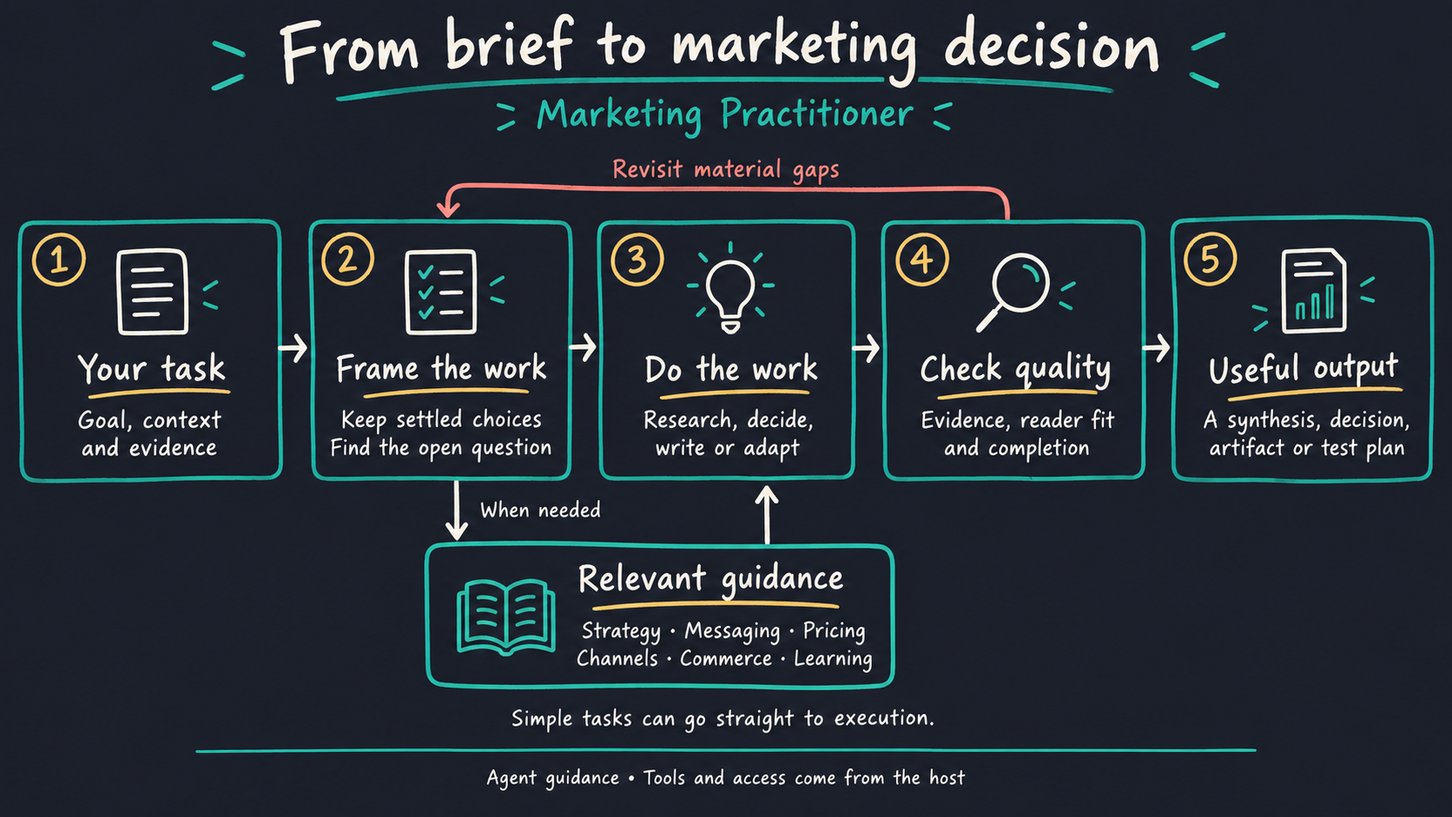
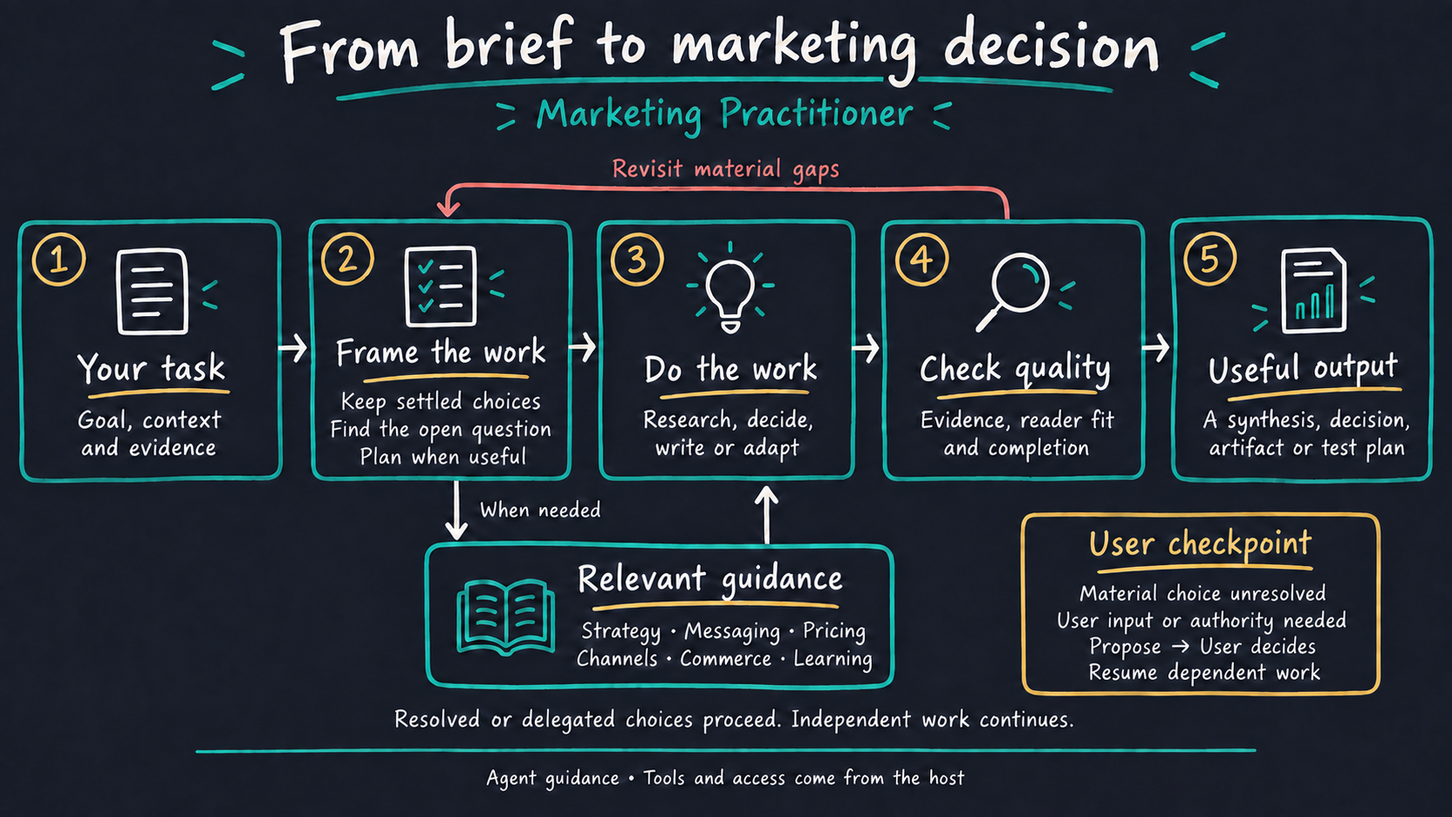
feat: add authority-aware planning and report presentation guidance

diff --git a/skills/marketing-practitioner/references/report-planning-and-presentation.md b/skills/marketing-practitioner/references/report-planning-and-presentation.md
@@ -1,0 +1,89 @@
+# Report Planning and Presentation
+
+Use for marketing reports, research syntheses, and decision briefs when their information architecture or presentation needs deliberate design. This is an operating contract, not evidence that one layout improves business outcomes. It applies across Markdown, HTML, PDF, and slides; adapt to the requested medium without changing the evidence or adopted decisions.
+
+Contents: [working plan](#working-plan), [decision boundaries](#decision-boundaries), [report contract](#report-contract), [representation choices](#representation-choices), [HTML delivery](#html-delivery), [examples](#examples), [source scope](#source-scope).
+
+## Working plan
+
+Apply the controller's materiality, delegation, and uncertainty rules. Planning organizes execution; a checkpoint resolves missing material input or decision authority under the request and retained context. Do not make a separate plan document unless it improves review or continuation, or the user requests one. A plan is not the final report unless planning itself is the requested job.
+
+Consider these six dimensions, exposing only what helps the user understand or revise the approach. Already supplied answers need no reconfirmation.
+
+| Dimension | Useful content |
+| --- | --- |
+| Purpose | Who will use the report, in what context, and for what understanding or decision? |
+| Questions | Which questions must be answered, and which are outside scope? Exploratory questions may evolve after a bounded inspection. |
+| Information architecture | Which sections are needed, what question or reader function each serves, and how the sequence builds understanding. |
+| Evidence plan | What is available, what must be retrieved or analyzed, and which gaps could change the answer. |
+| Presentation plan | Which comparisons or relationships need prose, tables, charts, diagrams, or interaction, and why. |
+| Completion and checkpoints | What makes the result useful and sufficiently supported; any unresolved material choice requiring user input or decision authority, and the work that depends on it. |
+
+Use a short outline with section purposes when that makes direction reviewable. Do not substitute decorative choices such as hero colors or card counts for the report's content architecture. Resolve ordinary rendering details within the brief and available design capabilities.
+
+## Decision boundaries
+
+Materiality follows the controller: a change in audience, scope, research question, method, positioning, channel, architecture, or commitment matters only when it changes the result or consequential downstream work. These labels do not determine decision authority. Establish whether the request and retained context authorize the agent to choose; do not infer that a topic inherently requires user approval.
+
+- **Sufficient direction:** announce a working plan if useful, then execute. Do not end the turn merely to invite approval.
+- **Delegated choice:** investigate enough to choose within scope, retain the choice and its limits, then continue. A recommendation remains a recommendation where adoption was not delegated.
+- **Material input or authority still needed:** inspect enough context to recommend a concrete direction and explain the consequence of choosing otherwise. Ask only for the missing decision; wait on dependent work while continuing reusable research or other independent work.
+
+Approval of an outline does not verify its factual assumptions or authorize publication, spending, or other external commitments. Follow the actual authorization for each action. New evidence may require revising a conclusion; preserve unaffected decisions and ask again only if a material choice remains unresolved and the available input or decision authority is insufficient.
+
+## Report contract
+
+Organize around the reader's questions rather than the chronology of research or the internal routing process. A decision brief may lead with a recommendation; an exploratory synthesis may lead with its question and supported findings. Neither requires an invented commercial recommendation.
+
+The finished report should let its reader:
+
+- Identify the subject, scope, intended use, and period where relevant without needing the surrounding chat.
+- Find the main answer or findings, then inspect the reasoning and evidence that support them. Distinguish observation, interpretation, assumption, and recommendation where confusing them would change meaning.
+- Trace consequential claims and figures to identifiable sources or supplied data. Preserve relevant population, period, units, method, and uncertainty close enough to prevent misinterpretation; deeper provenance can live in an appendix.
+- Understand material counterevidence and limitations at the point where they qualify a conclusion. Do not bury them behind a disclosure or in an unrelated footnote.
+- Compare alternatives on relevant common criteria when a choice is requested, and understand the recommendation's trade-off or why the evidence does not yet distinguish them.
+- Know what follows from the report, including a justified no-action result or an evidence limit. Do not force a CTA into an informational report.
+
+These are functions, not required headings. Preserve a sufficient supplied outline, and change it only when needed to complete the job truthfully. Visual finish cannot compensate for missing answers, fabricated evidence, or unsupported certainty.
+
+## Representation choices
+
+| Form | Use when | Preserve |
+| --- | --- | --- |
+| Prose | Explaining an argument, qualification, mechanism, or recommendation | Connected reasoning; headings that describe the actual content |
+| Table | Readers need exact lookup or comparison on common dimensions | Units, comparable definitions, clear headers, and meaningful unknowns rather than invented scores |
+| Chart | A supported quantitative pattern is easier to inspect visually | Traceable data, labeled units and scales, comparable periods, and uncertainty where material; never manufacture values for visual completeness |
+| Diagram | Structure, dependencies, sequence, or relationships are the subject | Clear meanings for arrows and groups; a proposed flow must not look like an observed causal result |
+| Cards or callouts | A few independent findings need separate emphasis | Enough context and qualification; do not fragment a connected argument into decorative tiles |
+| Disclosure or tabs | Secondary detail would otherwise interrupt reading | The main answer and interpretation-changing qualifications remain available; hidden content is discoverable and accessible |
+| Interactive controls | Exploring scenarios, filtering, or changing assumptions helps answer the question | Visible input assumptions and scope, labeled modeled outputs, and a useful default state |
+
+Choose the simplest form that improves the reader's task. Keep terminology, units, visual encodings, and hierarchy consistent within the artifact; do not impose an identical layout across different reports.
+
+## HTML delivery
+
+Use the host's available implementation or design capabilities when useful. This skill owns content, evidence, and decision usefulness; it does not require a framework, component library, hosting service, or another installed skill.
+
+- Use meaningful document structure, descriptive headings in logical order, and navigation when the report's length warrants it. Keep reading order coherent independently of visual columns. See [WAI page structure](https://www.w3.org/WAI/tutorials/page-structure/).
+- Provide text equivalents for information-bearing visuals. A complex chart or diagram needs access to its essential values, relationships, and conclusions, not just a generic image label. See [WAI complex images](https://www.w3.org/WAI/tutorials/images/complex/).
+- Let ordinary content reflow on narrow screens and at zoom without loss of information or controls. Where a table or diagram requires two-dimensional layout, contain its scrolling rather than forcing the whole report sideways. See [WCAG reflow guidance](https://www.w3.org/WAI/WCAG22/Understanding/reflow.html).
+- Make implemented controls operable by keyboard, with meaningful labels and visible focus. Do not rely only on hover or color to expose information. Check applicable contrast and interaction requirements against [WCAG 2.2](https://www.w3.org/TR/WCAG22/) when implementing; this short contract is not a complete conformance checklist.
+- Match delivery to use: a local file, hosted page, or printable report has different asset and interaction dependencies. Do not deploy simply because HTML was requested. When offline sharing is required, avoid essential remote dependencies; when print/PDF use matters, preserve findings, visual explanations, and sources in print rather than losing them inside collapsed panels.
+
+Validate the actual artifact with the capabilities available: check claims and data against sources, links and assets, reading order, narrow and wide rendering, and implemented interactions. Inspect print output when it is part of delivery. State material checks that could not be performed; source inspection or a screenshot alone does not establish accessibility conformance.
+
+If a renderer, scripting, network access, or an asset is unavailable, preserve a useful static narrative and accessible evidence representation where feasible. Do not silently substitute Markdown for requested HTML or imply a preview was tested. Identify the remaining delivery limitation and complete the supported portion.
+
+## Examples
+
+**Resolved HTML report:** "Use this outline and dataset to write an HTML market report." Check data sufficiency, state a brief implementation plan if useful, and build. The format and size do not create a review gate. Ask only if a material ambiguity remains, such as incompatible definitions that change the main comparison.
+
+**Delegated launch recommendation:** "Research the market and recommend a launch strategy; choose the best approach." Investigate, compare viable directions, recommend one, and complete the requested report. Keep unsupported assumptions visible. Do not ask the user to do the strategic selection that was delegated; a recommendation does not authorize launching campaigns.
+
+**User reserves a direction:** "Research both segments, then let me choose before you build the full launch report." Complete the comparison and recommend a segment with the decisive trade-off. Ask for that selection before segment-dependent strategy and production. Continue common market evidence work while waiting; do not treat silence as a selection.
+
+**Small but material:** "Send this short announcement" with two conflicting launch dates and no authoritative resolution. Its length does not eliminate the need to resolve the date before sending. Prepare supported wording while clarifying the date and preserving the actual sending authorization.
+
+## Source scope
+
+The linked W3C sources support the HTML accessibility guidance, consulted 2026-09-08. Planning, decision ownership, and the report contract are repository design rules derived from the existing controller and the requested behavior; they are not presented as empirically validated interventions. Assess live agent behavior separately from static package checks.

diff --git a/skills/marketing-practitioner/SKILL.md b/skills/marketing-practitioner/SKILL.md
@@ -25,9 +25,19 @@ Use the following decision loop for the current task. Keep its labels and workin
 3. **Name the open decision or learning question.** Identify what still needs choosing, interpreting, verifying, transforming, or explaining. Exploratory research may clarify the problem, relevant distinctions, or questions for later decisions; it does not require a predetermined commercial choice. A narrow transformation with sufficient inputs stays on the fast path: execute directly without an additional knowledge read. Load guidance only if a remaining specialist question can change the result.
 4. **Identify the evidence and constraints that could change the answer.** Separate observations, interpretations, hypotheses, assumptions, and unknowns. Consider counterevidence and plausible alternative explanations. For an exploratory question, make a bounded first inspection and refine the question as the material warrants; relevance need not be known with certainty before inspection.
 5. **Select operating paths by dependency, not by nouns.** Load a path when an unresolved choice or inference needs its specialist knowledge. Work only far enough upstream to supply the missing constraint or conclusion, then return to the requested job. A country, artifact, platform, or domain mention does not activate its full path.
-6. **Load guidance just in time and use the result.** Read the smallest relevant chapter or indexed section needed for the next decision. Use the retrieval procedure below when locating it. Retain the supported conclusion, applicable constraint, or remaining uncertainty for the pending job. If the question remains unresolved, identify the missing evidence, context, or user-owned input and use the uncertainty policy below. Re-read or expand when a changed question, missing context, new evidence, or failed read gives it a purpose. A read can narrow the answer without establishing the expected finding; retrieving a section is not itself completion.
+6. **Load guidance just in time and use the result.** Read the smallest relevant chapter or indexed section needed for the next decision. Use the retrieval procedure below when locating it. Retain the supported conclusion, applicable constraint, or remaining uncertainty for the pending job. If the question remains unresolved, identify the missing evidence, context, user input, or decision authority and use the uncertainty policy below. Re-read or expand when a changed question, missing context, new evidence, or failed read gives it a purpose. A read can narrow the answer without establishing the expected finding; retrieving a section is not itself completion.
 7. **Resolve and pass forward useful state.** Carry the conclusions, constraints, proof, and uncertainty needed downstream. Keep unselected proposals provisional and supported findings distinct from choices. When selection is delegated, make the choice within scope and carry it forward; do not introduce an extra approval step. Once a dependency is sufficiently resolved, return to the pending job rather than following unrelated references. Revisit dependencies when a real contradiction appears, not as a ritual; research, design, and drafting can inform each other.
 8. **Produce the minimum sufficient output and validate it.** Complete the requested artifact, explanation, or decision support. Account for every active requested outcome; if one remains blocked, provide the supported work and identify its material dependency without implying full completion. Internal reasoning depth does not determine visible length. Apply the completion criteria below and the relevant final checks, then stop.
+
+### Planning and decision checkpoints
+
+Use a brief working plan when dependencies, uncertainty, or scope make it useful for keeping the work coherent. State the intended result, main dependencies, and completion condition, then proceed when direction and authority are sufficient. Task size, duration, or output format alone does not require approval; a small task can still require material input or decision authority from the user.
+
+Do not ask the user to approve a decision that is already resolved, explicitly delegated, or immaterial to the requested result. For an unresolved material choice, determine whether the request and retained context provide sufficient decision authority, not whether the topic is inherently assigned to the user: a request to recommend positioning or methodology normally authorizes analysis and a recommendation. It does not by itself authorize an external commitment.
+
+When a material choice remains unresolved, sufficient input or authority to decide cannot be established from the request and retained context, and downstream work would be materially invalidated by choosing incorrectly, do enough bounded preliminary work to present a concrete recommendation, its decisive trade-off, and the smallest question needed. Wait for that input before the dependent work; continue useful independent work. Silence is not approval. Retain the answer with resolved state, and revise only affected dependencies when it changes.
+
+For a complex marketing report or synthesis whose structure remains open, read [report planning and presentation](references/report-planning-and-presentation.md). For an HTML deliverable, use its HTML section only when implementation or delivery choices need guidance. A supplied sufficient outline stays on the direct path; this reference is not a new approval gate.
 
 ### Keeping multi-step work coherent
 
@@ -53,7 +63,7 @@ A difference is **material** when it could change the requested choice, supporte
 
 - **Proceed** when the supplied state is sufficient. Make ordinary reversible execution choices within the user's intent; do not ask the user to complete the handbook's checklists.
 - **Retrieve** when a material external fact can be resolved within the task's scope and available capabilities. Follow source fidelity for current or authoritative facts. Seek information that could discriminate plausible answers, not just support the first answer.
-- **Clarify** when plausible interpretations or missing user-owned inputs lead to materially different results and context or a useful bounded answer cannot resolve the difference. Ask the smallest question that unlocks the work and continue independent parts. Do not silently assume facts, evidence, permission, or commitments.
+- **Clarify** when plausible interpretations or missing user input or decision authority lead to materially different results and context or a useful bounded answer cannot resolve the difference. Ask the smallest question that unlocks the work and continue independent parts. Do not silently assume facts, evidence, permission, or commitments.
 - **Bound the result** when relevant evidence remains unavailable. Give the supported portion, a conditional recommendation, or explicitly provisional options when useful, and identify the unresolved dependency when the recipient needs it. A missing nonessential preference does not block completion.
 
 For decisions under uncertainty, compare feasible options against the user's objective, constraints, consequences, and reversibility. A bounded action can be justified before its effect is proven; that does not strengthen the empirical claim. Investigation or no-change is also an option, with its own cost and consequences. Stop investigating when further information is unlikely to alter the present choice or interpretation enough to justify its cost within the task. For requested research, stop at a sufficiently supported account of the agreed question or an explicit evidence limit; do not imply exhaustive coverage.

diff --git a/assets/diagrams/from-brief-to-marketing-decision.prompt.md b/assets/diagrams/from-brief-to-marketing-decision.prompt.md
@@ -1,16 +1,10 @@
-Use case: infographic-diagram.
-Create one polished hand-drawn chalkboard-style explanatory diagram for the GitHub README of Marketing Practitioner, an evidence-informed marketing skill for AI agents. Landscape 16:9, high resolution. Deep charcoal navy background #1D202B, ivory lettering, teal primary accent inspired by brand #008477 (use brighter teal strokes for contrast), muted gold and coral secondary accents. Friendly carefully drawn chalk/marker lines, slight human irregularity, beautiful highly readable hand-lettering, clean sparse composition, generous whitespace, no textures obscuring text. No gradients, 3D, stock artwork, logos of other products or software UI. This is a workflow illustration, not an architecture of a runtime service.
-TITLE across top: "From brief to marketing decision"
-SUBTITLE: "Marketing Practitioner"
-Five large equal main boxes in a single left-to-right horizontal row around vertical center. Each numbered 1 to 5, connected by clearly separated right-pointing ivory arrows. Exact text in each box with short lines:
-1 title "Your task"; body "Goal, context" / "and evidence"
-2 title "Frame the work"; body "Keep settled choices" / "Find the open question"
-3 title "Do the work"; body "Research, decide," / "write or adapt"
-4 title "Check quality"; body "Evidence, reader fit" / "and completion"
-5 title "Useful output"; body "A synthesis, decision," / "artifact or test plan"
-Below the gap between boxes 2 and 3: one wider teal outlined secondary box titled "Relevant guidance", body "Strategy · Messaging · Pricing" / "Channels · Commerce · Learning"
-Arrow from bottom of box2 down into LEFT side of Relevant guidance, labeled "When needed". Separate arrow from RIGHT side of Relevant guidance up to bottom of box3. The direct main arrow 2 to3 remains visible: no obligatory research detour. Do not connect guidance to unrelated boxes.
-Above main boxes, one thin coral return arrow running from TOP of box4 LEFTWARD into TOP of box2, label "Revisit material gaps". Keep this arrow clearly below subtitle and above boxes, without text overlap.
-Under guidance box, a single centered small line: "Simple tasks can go straight to execution."
-Bottom footer separated by a subtle short teal line: "Agent guidance • Tools and access come from the host"
-Typography must be legible at README width 900 px. Prioritize large box titles, short body lines and obvious arrow direction. All text must be exact spelled English, no extra prose, no badges, no claims of automatic systems, guaranteed results or mandatory linear marketing funnels.
+# Workflow diagram — edit of the original
+
+Base: the original workflow image from commit 53682a0, before planning changes. Use that image as the edit target, not the rejected regenerated layout.
+
+Edit this ORIGINAL diagram with minimal changes. Preserve the exact original dark navy background, rounded teal boxes, gold circled numbers 1-5, all icons, handwritten typography, title and subtitle, and ALL existing arrows with their exact positions and directions. Do not redesign or recompose the main diagram.
+Only make these changes:
+1. In Frame the work, retain Keep settled choices and Find the open question, add a short third line Plan when useful. Make room by shifting this box title/body upward slightly, keeping its icon and number.
+2. In the EMPTY navy space to the RIGHT of Relevant guidance, BELOW main boxes4 and5, add a compact unconnected GOLD callout. Its approximate bounds x1090..1630, y625..795 on the 1672x941 reference. Thin rounded gold outline matching existing drawing style. Title User checkpoint. Body four short lines: Material choice unresolved / User input or authority needed / Propose → User decides / Resume dependent work. This is a NOTE without arrows. Do not connect it to any box, do not add any new connectors.
+3. Replace Simple tasks can go straight to execution. with Resolved or delegated choices proceed. Independent work continues. in one readable centered line, fitting above the footer separator.
+Keep Relevant guidance box and its two existing white arrows EXACTLY intact. Keep every other text unchanged. Match original visual quality, breathing room, stroke weight and typography. No extra line or arrow anywhere.

diff --git a/README.md b/README.md
@@ -139,7 +139,9 @@ It has no authority to invent product, financial, legal, operational, sales, pla
 
 The skill starts from the current job, not from a predefined marketing funnel.
 
-![Marketing Practitioner workflow: frame the task, use relevant guidance when needed, do the work, check quality, and return useful outputs. Material gaps lead back to the open question.](assets/diagrams/from-brief-to-marketing-decision.png)
+![Marketing Practitioner workflow: frame the task, use relevant guidance when needed, do the work, check quality, and return useful outputs. Material gaps lead back to the open question; a checkpoint is needed only when a material choice remains unresolved and user input or decision authority is still needed.](assets/diagrams/from-brief-to-marketing-decision.png)
+
+Complex work can start with a brief working plan without waiting for approval. The agent proceeds on resolved or delegated choices; when a material choice remains unresolved and the request or retained context does not provide enough input or authority to decide, it prepares a concrete proposal and asks before the dependent work. Independent work can continue while you decide. Task size or HTML output alone does not create an approval gate.
 
 Reads serve a remaining question; they are not completion by themselves. When evidence is missing, the agent is instructed to retrieve it, ask a material question, or give a useful bounded result.
 
@@ -165,7 +167,9 @@ The host controls skill activation, available tools, and how much context surviv
 
 ## Under the hood
 
-![Inside Marketing Practitioner: SKILL.md guides the agent; the index locates relevant knowledge in the handbook, platform modules, and local adaptations. Frameworks and references supply optional working aids and evidence boundaries.](assets/diagrams/inside-the-skill.png)
+![Inside Marketing Practitioner: SKILL.md guides the agent; the index locates relevant knowledge in the handbook, platform modules, and local adaptations. Frameworks and references supply optional working aids, evidence boundaries, and report planning and presentation guidance.](assets/diagrams/inside-the-skill.png)
+
+For complex reports, [report planning and presentation](skills/marketing-practitioner/references/report-planning-and-presentation.md) connects reader questions, section purposes, evidence, and useful visual forms across formats, with additional HTML delivery guidance.
 
 Large knowledge is addressed by logical IDs in [`routing-index.json`](skills/marketing-practitioner/routing-index.json). Headings and file paths are implementation details.
 

diff --git a/assets/diagrams/inside-the-skill.md b/assets/diagrams/inside-the-skill.md
@@ -2,6 +2,6 @@
 
 Generated with the built-in ImageGen tool for the README's Under the hood section. The [generation prompt](inside-the-skill.prompt.md) is the editable specification; `inside-the-skill.png` is a raster illustration.
 
-The diagram summarizes the runtime controller and retrieval rules in `skills/marketing-practitioner/SKILL.md`, the handbook map, and the roles of `frameworks/` and `references/`. These are file roles, not autonomous software services. Direct chapter entry and indexed lookup are alternatives chosen for the open question. The knowledge examples are selective; supporting aids are not mandatory reads.
+The diagram summarizes the runtime controller and retrieval rules in `skills/marketing-practitioner/SKILL.md`, the handbook map, and the roles of `frameworks/` and `references/`, including planning checkpoints and report presentation guidance. These are file roles, not autonomous software services. Direct chapter entry and indexed lookup are alternatives chosen for the open question. The knowledge examples are selective; supporting aids are not mandatory reads.
 
 Review file names, arrow direction, optionality, and knowledge ownership against the source before regenerating. Visually check spelling and readability before replacing the README asset.

diff --git a/assets/diagrams/inside-the-skill.prompt.md b/assets/diagrams/inside-the-skill.prompt.md
@@ -39,3 +39,8 @@ One centered final footer:
 Small second footer:
 "Instructions and reference files • The host provides tools and context"
 Keep exact text and file names, including lowercase and punctuation. Do not add counts, version numbers, guarantee statements, irrelevant mechanics or any other prose. Clearly distinguish three main boxes from two bottom supports. Precise spacing, no collisions. This image explains a skill's file roles, not software services running autonomously.
+
+
+## Planning update edit
+
+Edit the supplied diagram with minimal changes. Preserve all existing layout, text, arrows, colors, chalkboard style and proportions. In the SKILL.md panel add: Planning and decision checkpoints. In the Sources and operating detail panel add: Report planning and presentation. Preserve readable spacing and all existing text. Do not add arrows or boxes.

diff --git a/assets/diagrams/README.md b/assets/diagrams/README.md
@@ -4,4 +4,4 @@
 
 Content is summarized from the runtime controller, uncertainty policy, useful-completion criteria, and final validation in `skills/marketing-practitioner/SKILL.md` (v1.6.0). The specialist examples are illustrative, not a complete coverage list or required reading sequence. The image describes agent instructions, not an autonomous runtime or a guarantee of results.
 
-When the controller changes, review the direct execution path, optional guidance branch, quality checks, and return loop before regenerating. Inspect the generated text and arrow directions before replacing the README asset.
+When the controller changes, review the direct execution path, optional guidance branch, unconnected user-checkpoint note, quality checks, and return loop before regenerating. Inspect the generated text and arrow directions before replacing the README asset.
